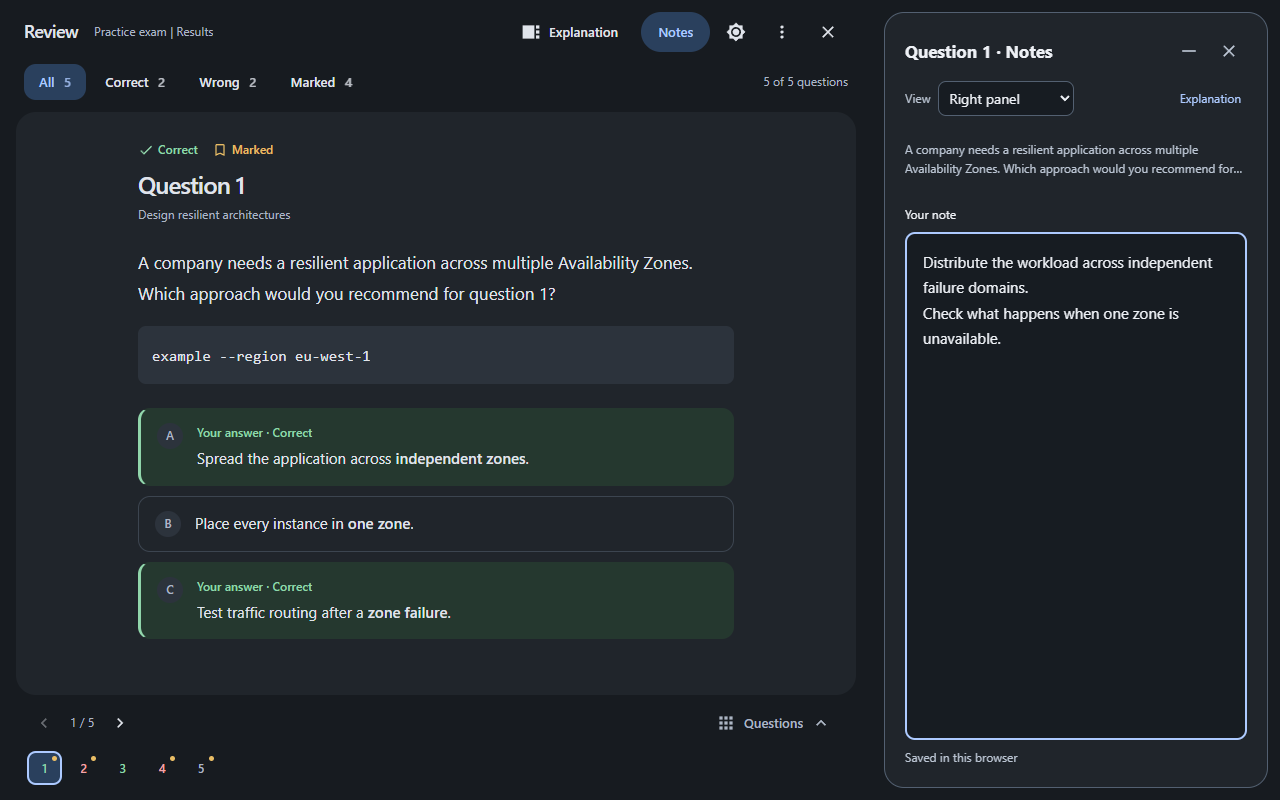
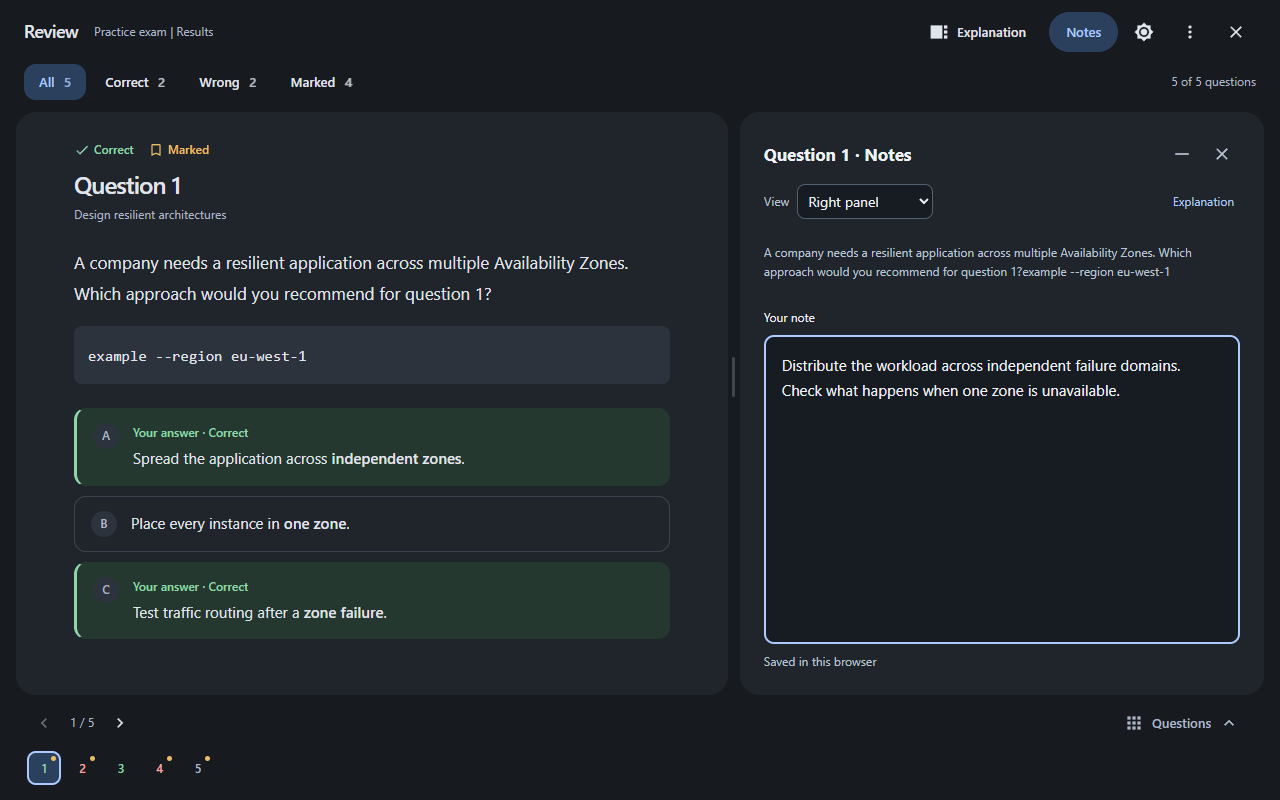
Integrate docked notes into workspace and ship extension-only website download

diff --git a/extension/notes.js b/extension/notes.js
@@ -6,7 +6,7 @@
   const noteIcon = '<svg viewBox="0 0 24 24" width="20" height="20" aria-hidden="true" fill="currentColor"><path d="M3,10h11v2H3V10z M3,8h11V6H3V8z M3,16h7v-2H3V16z M18.01,12.87l0.71-0.71c0.39-0.39,1.02-0.39,1.41,0l0.71,0.71 c0.39,0.39,0.39,1.02,0,1.41l-0.71,0.71L18.01,12.87z M17.3,13.58l-5.3,5.3V21h2.12l5.3-5.3L17.3,13.58z"/></svg>';
   const minimizePath = 'M4 11h16v2H4z', expandPath = 'M12 5.83L15.17 9l1.41-1.41L12 3 7.41 7.59 8.83 9 12 5.83zm0 12.34L8.83 15l-1.41 1.41L12 21l4.59-4.59L15.17 15 12 18.17z';
   let host, shadow, current, shownStamp, targetStamp, trigger, pending = Promise.resolve(), writes = 0, failed = false, enabled = true, opening = 0;
-  let placement = 'floating';
+  let placement = 'floating', activePrompt, nativeLayout;
   const buttons = new WeakMap();
   const node = (tag, text) => { const element = document.createElement(tag); if (text) element.textContent = text; return element; };
   function mount() {
@@ -20,8 +20,9 @@
       *{box-sizing:border-box}[hidden]{display:none!important}
       section{width:min(480px,calc(100vw - 36px));max-height:calc(100dvh - 36px);overflow:auto;padding:20px;background:var(--surface);color:var(--ink);font:14px/1.55 system-ui;border:1px solid var(--line);border-radius:20px;box-shadow:0 12px 48px #0004;animation:enter 160ms ease-out;transition:width 160ms ease}
       :host([data-minimized]) section{width:min(320px,calc(100vw - 36px));padding:12px 16px}
-      :host([data-docked]){top:12px!important;right:12px!important;bottom:12px!important;width:var(--study-notes-width)}
-      :host([data-docked]) section{width:100%;height:100%;max-height:none;display:flex;flex-direction:column;box-shadow:none;padding:20px}
+      :host([data-docked]){position:static!important;inset:auto!important;z-index:auto!important;width:100%;height:100%;min-width:0;min-height:0;display:block}
+      :host([hidden]){display:none!important}
+      :host([data-docked]) section{width:100%;height:100%;max-height:none;min-height:360px;display:flex;flex-direction:column;box-shadow:none;border:0;padding:24px;animation:none}
       :host([data-docked]) #editor{display:flex;flex:1;min-height:0;flex-direction:column}
       :host([data-docked]) textarea{flex:1;min-height:140px;max-height:none;resize:none}
       .placement{display:flex;align-items:center;gap:8px;margin:12px 0}.placement label{margin:0;font-size:12px;color:var(--muted)}
@@ -75,12 +76,37 @@
     layout();
   }
   function close() { if (host) host.hidden = true; layout(); trigger?.focus(); }
+  function moveTo(parent) {
+    if (!host || host.parentElement === parent) return;
+    const focused = shadow.activeElement;
+    parent.append(host);
+    focused?.focus({preventScroll:true});
+  }
+  function releaseDock() {
+    nativeLayout?.removeAttribute('data-study-notes-layout'); nativeLayout = null;
+    host?.removeAttribute('slot');
+    moveTo(document.body);
+  }
   function layout() {
-    const docked = !!host && !host.hidden && !host.hasAttribute('data-minimized') && placement === 'docked' && innerWidth >= 1100;
     const root = document.documentElement;
-    root.toggleAttribute('data-study-notes-docked',docked);
     const review = document.querySelector('#udemy-study-review');
+    const question = activePrompt?.isConnected && activePrompt.closest(`[class*="quiz-view--container--"],${wrapper}`);
+    const nativeTarget = question?.parentElement;
+    const docked = !!host && !host.hidden && !host.hasAttribute('data-minimized') && placement === 'docked' && innerWidth >= 1100 && !!(review || nativeTarget);
+    if (nativeLayout && (!docked || review || nativeLayout !== nativeTarget)) {
+      nativeLayout.removeAttribute('data-study-notes-layout'); nativeLayout = null;
+    }
+    if (docked && review) {
+      host.slot = 'notes'; moveTo(review);
+    } else if (docked) {
+      host.removeAttribute('slot'); nativeLayout = nativeTarget;
+      const siblings = [...nativeTarget.children].filter(child => child !== host && getComputedStyle(child).display !== 'none' && !['absolute','fixed'].includes(getComputedStyle(child).position));
+      host.style.setProperty('--study-note-row',String(siblings.indexOf(question)+1));
+      nativeLayout.setAttribute('data-study-notes-layout',''); moveTo(nativeTarget);
+    } else { host?.removeAttribute('slot'); moveTo(document.body); }
+    root.toggleAttribute('data-study-notes-docked',docked);
     review?.toggleAttribute('data-notes-docked',docked);
+    review?.shadowRoot.querySelector('.splitter')?.setAttribute('aria-label',docked ? 'Resize notes panel' : 'Resize explanation panel');
     const explain = review?.shadowRoot.querySelector('[data-control="explanation"]');
     review?.shadowRoot.querySelector('[data-control="notes"]')?.setAttribute('aria-pressed',String(!!host && !host.hidden));
     if (explain) {
@@ -110,6 +136,7 @@
   const stampFor = (prompt,number) => JSON.stringify([location.pathname,number,StudyDockNotes.content(prompt)]);
   async function open(prompt, number, button, focus = true) {
     const request = ++opening;
+    activePrompt = prompt;
     mount(); host.hidden = false; trigger = button;
     if (focus) setMinimized(false);
     shadow.querySelector('#text').disabled = true;
@@ -195,12 +222,11 @@
     button.style.marginLeft = Math.max(0, textLeft - base) + 'px';
   }
   const style = node('style'); style.textContent = `
-    html{--study-notes-width:clamp(340px,30vw,440px)}
-    html[data-study-notes-docked]:not([data-study-focus]) body{width:calc(100% - var(--study-notes-width) - 24px)!important}
-    html[data-study-notes-docked] #udemy-study-review{right:calc(var(--study-notes-width) + 24px)!important}
+    [data-study-notes-layout]{display:grid!important;grid-template-columns:minmax(0,1fr) minmax(320px,34%);column-gap:16px;align-items:stretch}
+    [data-study-notes-layout]>*{grid-column:1;min-width:0}
+    [data-study-notes-layout]>#studydock-notes{grid-column:2;grid-row:var(--study-note-row,1)}
     html[data-study-notes-docked]:not([data-study-focus]) :is([data-purpose="sidebar"],[class*="app--sidebar--"],[class*="sidebar--sidebar--"]){display:none!important}
     html[data-study-notes-docked]:not([data-study-focus]) [class*="app--content--"]{margin-right:0!important}
-    html[data-study-notes-docked]:not([data-study-focus]) [class*="curriculum-item-footer--footer"]{right:calc(var(--study-notes-width) + 24px)!important;width:auto!important}
     [data-study-mark-control]{border-radius:20px!important;padding:8px 14px!important;font:500 14px system-ui!important;min-height:36px!important}
     html[data-study-dark] [data-study-mark-control]{color:#c1d8fa!important;background:#2a405d!important}
     .studydock-note-button{display:inline-flex;align-items:center;align-self:flex-start;justify-self:start;width:max-content!important;max-width:100%;gap:8px;margin:12px 0;padding:8px 14px;border:0;border-radius:20px;background:#dce9fc;color:#285ea8;font:500 14px system-ui;cursor:pointer}
@@ -222,5 +248,5 @@
     }
   });
   window.addEventListener('beforeunload', event => { if (writes || failed) { event.preventDefault(); event.returnValue = ''; } });
-  globalThis.StudyDockNoteUI = {open, follow, close, layout, docked:() => !!host?.hasAttribute('data-docked')};
+  globalThis.StudyDockNoteUI = {open, follow, close, layout, releaseDock, docked:() => !!host?.hasAttribute('data-docked')};
 })();

diff --git a/website/app/page.jsx b/website/app/page.jsx
@@ -4,10 +4,10 @@ import Demo from '../components/Demo';
 import Downloads from '../components/Downloads';
 import Privacy from '../components/Privacy';
 import ArrowOutwardRounded from '@mui/icons-material/ArrowOutwardRounded';
-import {REPOSITORY,STORE_URL,PRIVATE_REPOSITORY,asset} from '../lib/config';
+import {REPOSITORY,STORE_URL,asset} from '../lib/config';
 export default function Page() {
   return <><a className="skip-link" href="#main">Skip to content</a><div className="page-wrap" id="top"><Header/><main id="main">
-    <section className="hero"><div className="hero-copy"><p className="eyebrow">A study workspace for Udemy</p><h1>Make sense of<br/>every missed<br/><span>question.</span></h1><p className="hero-description">Give your practice tests a second life. Read the explanation, keep your own reasoning, and take useful notes into your next study session.</p><div className="hero-actions"><InstallButton/><a className="text-link" href="#try-it">Try the study example <ArrowOutwardRounded fontSize="small"/></a></div><p className="availability">{STORE_URL?'Desktop Chrome · desktop app optional':`GitHub source ZIP · for desktop Chrome${PRIVATE_REPOSITORY?' · repository access required':''}`}</p>{!STORE_URL&&<details className="extension-install"><summary>Install in Chrome from GitHub</summary><ol><li>Download and extract the ZIP into a permanent folder.</li><li>Open <code>chrome://extensions</code> and enable <strong>Developer mode</strong>.</li><li>Click <strong>Load unpacked</strong> and select the extracted repository’s <code>extension</code> folder.</li><li>Pin StudyDock from Chrome’s Extensions menu. Keep the folder in place.</li></ol><p>No Chrome Web Store listing is needed for this installation.</p></details>}</div>
+    <section className="hero"><div className="hero-copy"><p className="eyebrow">A study workspace for Udemy</p><h1>Make sense of<br/>every missed<br/><span>question.</span></h1><p className="hero-description">Give your practice tests a second life. Read the explanation, keep your own reasoning, and take useful notes into your next study session.</p><div className="hero-actions"><InstallButton/><a className="text-link" href="#try-it">Try the study example <ArrowOutwardRounded fontSize="small"/></a></div><p className="availability">{STORE_URL?'Desktop Chrome · desktop app optional':'Extension-only ZIP · for desktop Chrome'}</p>{!STORE_URL&&<details className="extension-install"><summary>Install in Chrome</summary><ol><li>Download and extract the ZIP into a permanent folder.</li><li>Open <code>chrome://extensions</code> and enable <strong>Developer mode</strong>.</li><li>Click <strong>Load unpacked</strong> and select the extracted folder containing <code>manifest.json</code>.</li><li>Pin StudyDock from Chrome’s Extensions menu. Keep the folder in place.</li></ol><p>No Chrome Web Store listing is needed for this installation.</p></details>}</div>
       <div className="hero-preview"><div className="preview-label"><span className="status-dot"/>A little more room to understand</div><ProductShot src="images/focus-review.png" alt="StudyDock focused review showing a question alongside answer explanations and a question navigation tray" caption="The focused review workspace" priority/><div className="preview-note"><span className="note-rule"/><p>One question. Your answer.<br/><strong>The reason behind it.</strong></p></div></div></section>
     <div className="principles"><span>Browser-first</span><span>Question-specific notes</span><span>Markdown & JSON</span><span>Light & dark themes</span></div>
     <section id="workspace" className="workspace-section"><div className="section-intro"><span className="eyebrow">From result to understanding</span><h2>Keep the context.<br/>Add your thinking.</h2><p>Your answer, the explanation and your own note belong together. StudyDock keeps them within reach, without turning your exam into another dashboard.</p><ol className="feature-lines"><li><span>01</span><div><h3>Review at your own pace</h3><p>Move between questions, filter the ones you missed or marked, and give explanations the space they need.</p></div></li><li><span>02</span><div><h3>Remember what clicked</h3><p>Float your notes or dock them on the right. Notes follow the current question in exams and focused review; the dock shares space with Explanation.</p></div></li><li><span>03</span><div><h3>Take the useful parts with you</h3><p>Export questions with answers, explanations, review flags and notes. Choose a batch size that fits your study session.</p></div></li></ol></div><div className="workspace-images"><ProductShot src="images/question-notes.png" alt="A question-specific notes panel open beside a practice question in StudyDock" caption="Your reasoning stays with the question"/><p className="image-note">Actual StudyDock interface. All questions shown here are illustrative examples.</p></div></section>

diff --git a/extension/review.js b/extension/review.js
@@ -73,9 +73,13 @@
     .splitter:hover:after,.splitter:focus:after {background:var(--accent)}
     .left .question {grid-column:3}.left .explanation {grid-column:1}
     .panes.closed {grid-template-columns:minmax(0,1fr)}.closed .question {grid-column:1}.closed .explanation,.closed .splitter {display:none}
-    :host([data-notes-docked]) .panes{grid-template-columns:minmax(0,1fr)}
+    :host([data-notes-docked]) .panes{grid-template-columns:minmax(0,1fr) 12px minmax(320px,var(--explanation-width,42%))}
     :host([data-notes-docked]) .question{grid-column:1}
-    :host([data-notes-docked]) .explanation,:host([data-notes-docked]) .splitter{display:none}
+    :host([data-notes-docked]) .explanation{display:none}
+    :host([data-notes-docked]) .splitter{display:block}
+    .notes-panel{display:none;grid-column:3;grid-row:1;min-height:0;min-width:0;overflow:auto;border-radius:20px;background:var(--surface)}
+    :host([data-notes-docked]) .notes-panel{display:block}
+    slot[name=notes]{display:block;height:100%}
     .panel {min-width:0;min-height:0;overflow:auto;overscroll-behavior:contain;background:var(--surface);border-radius:20px;
       scrollbar-width:thin;scrollbar-color:var(--line) transparent;scroll-padding:28px}
     .reading {max-width:78ch;margin:auto;padding:28px clamp(24px,3vw,48px) 36px}
@@ -352,6 +356,7 @@
   }
   function closeReview() {
     closeImage(false);
+    globalThis.StudyDockNoteUI?.releaseDock();
     host?.remove(); host = shadow = null;
     document.documentElement.removeAttribute("data-study-focus");
     rememberedFocus?.focus?.({preventScroll: true}); rememberedFocus = null;
@@ -460,14 +465,14 @@
     const resize = value => { const width = Math.max(25, Math.min(65, value)); panes.style.setProperty("--explanation-width", `${width}%`); splitter.setAttribute("aria-valuenow", String(Math.round(width))); return width; };
     splitter.addEventListener("pointerdown", event => {
       if (event.button !== 0) return; event.preventDefault(); splitter.setPointerCapture(event.pointerId);
-      const move = event => { const rect = panes.getBoundingClientRect(); const x = (event.clientX - rect.left) / rect.width * 100; resize(settings.explanationSide === "left" ? x : 100 - x); };
+      const move = event => { const rect = panes.getBoundingClientRect(); const x = (event.clientX - rect.left) / rect.width * 100; resize(settings.explanationSide === "left" && !host.hasAttribute('data-notes-docked') ? x : 100 - x); };
       const done = () => { splitter.removeEventListener("pointermove", move); splitter.removeEventListener("pointerup", done); splitter.removeEventListener("pointercancel", done); save({explanationWidth: Number(splitter.getAttribute("aria-valuenow"))}); };
       splitter.addEventListener("pointermove", move); splitter.addEventListener("pointerup", done); splitter.addEventListener("pointercancel", done);
     });
     splitter.addEventListener("keydown", event => {
       if (!["ArrowLeft", "ArrowRight", "Home", "End"].includes(event.key)) return;
       event.preventDefault(); event.stopPropagation();
-      const change = (event.key === "ArrowRight" ? 2 : -2) * (settings.explanationSide === "left" ? 1 : -1);
+      const change = (event.key === "ArrowRight" ? 2 : -2) * (settings.explanationSide === "left" && !host.hasAttribute('data-notes-docked') ? 1 : -1);
       const value = event.key === "Home" ? 25 : event.key === "End" ? 65 : Number(splitter.getAttribute("aria-valuenow")) + change;
       save({explanationWidth: resize(value)});
     }); panes.append(splitter);
@@ -478,7 +483,9 @@
       if (!option.reasons.length) return;
       const details = el("details"); details.append(el("summary", "", `Choice ${String.fromCharCode(65 + i)} explanation`));
       option.reasons.forEach(reason => details.append(copyRich(reason))); exp.append(details);
-    }); explanation.append(exp); panes.append(explanation); workspace.append(panes);
+    }); explanation.append(exp); panes.append(explanation);
+    const notesPanel = el('div','notes-panel'), notesSlot = el('slot'); notesSlot.name = 'notes'; notesPanel.append(notesSlot); panes.append(notesPanel);
+    workspace.append(panes);
     const bottom = el("footer", "bottom"), nav = el("div", "nav-line"), paging = el("div", "controls");
     const indexes = matchingIndexes(), position = indexes.indexOf(active);
     const previous = iconButton("Previous question", "previous", () => step(-1)), next = iconButton("Next question", "next", () => step(1));

diff --git a/website/lib/config.js b/website/lib/config.js
@@ -1,7 +1,7 @@
 export const REPOSITORY = 'https://github.com/HimanM/Udemy-Study-Tools';
-export const EXTENSION_ZIP = `${REPOSITORY}/archive/refs/heads/main.zip`;
 export const VERSION = '1.4.3';
 export const BASE_PATH = process.env.NEXT_PUBLIC_BASE_PATH || '';
+export const EXTENSION_ZIP = `${BASE_PATH}/downloads/StudyDock-extension.zip`;
 export const PRIVATE_REPOSITORY = process.env.NEXT_PUBLIC_REPO_PRIVATE !== 'false';
 const store = process.env.NEXT_PUBLIC_CHROME_STORE_URL || '';
 export const STORE_URL = /^https:\/\/chromewebstore\.google\.com\/detail\//.test(store) ? store : '';

diff --git a/test_notebook.py b/test_notebook.py
@@ -109,13 +109,20 @@ def main():
         exam_panel.get_by_label('View',exact=True).select_option('docked')
         exam.wait_for_function("document.documentElement.hasAttribute('data-study-notes-docked')")
         assert exam.locator('[data-purpose=sidebar]').is_hidden()
-        assert exam.locator('main').bounding_box()['width'] < 950
+        assert exam_panel.evaluate("node=>node.parentElement.hasAttribute('data-study-notes-layout') && getComputedStyle(node).position==='static'")
+        question_box=exam.locator('[class*=quiz-view--container]').bounding_box()
+        note_box=exam_panel.bounding_box()
+        assert abs(question_box['y']-note_box['y'])<1
+        assert abs(question_box['height']-note_box['height'])<1
+        assert question_box['x']+question_box['width']<note_box['x']
+        screenshot(exam,'exam-notes-docked.png')
         exam_panel.get_by_role('button',name='Course sidebar',exact=True).click()
         assert exam.locator('[data-purpose=sidebar]').is_visible()
         exam.get_by_role('button',name='Notes',exact=True).click()
         assert exam_panel.get_attribute('data-docked') is not None
         exam_panel.get_by_label('View',exact=True).select_option('floating')
         exam.wait_for_function("!document.documentElement.hasAttribute('data-study-notes-docked')")
+        assert exam_panel.evaluate("node=>node.parentElement===document.body && getComputedStyle(node).position==='fixed'")
         original_prompt=exam.locator('#question-prompt').inner_html()
         next_prompt=page.locator('[id="question-prompt"]').nth(1).inner_html()
         exam_panel.locator('textarea').fill('Exam question one reminder')
@@ -160,7 +167,31 @@ def main():
         panel.get_by_label('View',exact=True).select_option('docked')
         page.wait_for_function("document.querySelector('#udemy-study-review').hasAttribute('data-notes-docked')")
         assert review.locator('.explanation').is_hidden()
+        assert panel.evaluate("node=>node.parentElement.id==='udemy-study-review' && node.assignedSlot?.name==='notes' && getComputedStyle(node).position==='static'")
+        question_box=review.locator('.question').bounding_box()
+        note_box=panel.bounding_box()
+        assert abs(question_box['y']-note_box['y'])<1
+        assert abs(question_box['height']-note_box['height'])<1
         assert review.locator('.question').bounding_box()['x'] + review.locator('.question').bounding_box()['width'] < panel.bounding_box()['x']
+        splitter=review.get_by_role('separator',name='Resize notes panel')
+        before=note_box['width']; splitter.focus(); page.keyboard.press('ArrowLeft')
+        assert panel.bounding_box()['width']>before
+        review.get_by_role('button',name='Next question',exact=True).click()
+        panel.get_by_role('heading',name='Question 2 · Notes',exact=True).wait_for()
+        review.get_by_role('button',name='Previous question',exact=True).click()
+        panel.get_by_role('heading',name='Question 1 · Notes',exact=True).wait_for()
+        assert panel.locator('textarea').input_value()=='Explanation remains open while I type e.'
+        page.evaluate("chrome.storage.local.set({explanationSide:'left'})")
+        page.wait_for_function("document.querySelector('#udemy-study-review').shadowRoot.querySelector('.panes').classList.contains('left')")
+        assert review.locator('.question').bounding_box()['x']<panel.bounding_box()['x']
+        assert panel.locator('textarea').input_value()=='Explanation remains open while I type e.'
+        page.evaluate("chrome.storage.local.set({explanationSide:'right'})")
+        page.wait_for_function("!document.querySelector('#udemy-study-review').shadowRoot.querySelector('.panes').classList.contains('left')")
+        review.get_by_role('button',name='Original view',exact=True).click()
+        assert panel.is_visible()
+        assert panel.locator('textarea').input_value()=='Explanation remains open while I type e.'
+        page.get_by_role('button',name='Focus review',exact=True).click()
+        page.wait_for_function("document.querySelector('#studydock-notes').assignedSlot?.name==='notes'")
         screenshot(page,'review-notes-docked.png')
         review.get_by_role('button',name='Show explanation',exact=True).click()
         assert panel.is_hidden() and review.locator('.explanation').is_visible()

diff --git a/website/test_site.py b/website/test_site.py
@@ -5,6 +5,7 @@ import json
 import os
 from pathlib import Path
 import threading
+import zipfile
 from playwright.sync_api import sync_playwright
 
 ROOT=Path(__file__).resolve().parent
@@ -37,10 +38,18 @@ try:
         assert '\u2014' not in page.locator('body').inner_text()
         page.wait_for_function("document.documentElement.dataset.theme==='dark'")
         assert page.locator('a[href*="chromewebstore.google.com"]').count()==0
-        assert page.get_by_role('link',name='Download extension',exact=True).first.get_attribute('href')=='https://github.com/HimanM/Udemy-Study-Tools/archive/refs/heads/main.zip'
-        page.get_by_text('Install in Chrome from GitHub',exact=True).click()
+        extension_link=page.get_by_role('link',name='Download extension',exact=True).first
+        assert extension_link.get_attribute('href')==BASE+'/downloads/StudyDock-extension.zip'
+        with page.expect_download() as extension_download:
+            extension_link.click()
+        with zipfile.ZipFile(extension_download.value.path()) as archive:
+            expected={file.relative_to(ROOT.parent/'extension').as_posix() for file in (ROOT.parent/'extension').rglob('*') if file.is_file()}
+            assert set(archive.namelist())==expected
+            assert json.loads(archive.read('manifest.json'))['version']==json.loads((ROOT.parent/'extension/manifest.json').read_text())['version']
+            assert archive.read('notes.js')==(ROOT.parent/'extension/notes.js').read_bytes()
+        page.get_by_text('Install in Chrome',exact=True).click()
         assert 'Load unpacked' in page.locator('.extension-install').inner_text()
-        page.get_by_text('Install in Chrome from GitHub',exact=True).click()
+        page.get_by_text('Install in Chrome',exact=True).click()
         assert page.locator('link[rel=icon]').get_attribute('href').endswith('/favicon.png')
         for width in [1440,768,390]:
             page.set_viewport_size({'width':width,'height':1000 if width>400 else 844})

diff --git a/tools/build_browser_download.py b/tools/build_browser_download.py
@@ -1,0 +1,22 @@
+"""Build the extension-only download served by the static website."""
+import json
+from pathlib import Path
+import zipfile
+
+ROOT = Path(__file__).resolve().parents[1]
+source = ROOT / 'extension'
+destination = ROOT / 'website/public/downloads/StudyDock-extension.zip'
+manifest = json.loads((source / 'manifest.json').read_text(encoding='utf-8'))
+destination.parent.mkdir(parents=True, exist_ok=True)
+files = sorted(file for file in source.rglob('*') if file.is_file())
+with zipfile.ZipFile(destination, 'w', zipfile.ZIP_DEFLATED) as archive:
+    for file in files:
+        if not file.resolve().is_relative_to(source.resolve()):
+            raise ValueError(f'Extension file points outside its folder: {file.name}')
+        archive.write(file, file.relative_to(source))
+with zipfile.ZipFile(destination) as archive:
+    assert archive.testzip() is None
+    assert set(archive.namelist()) == {file.relative_to(source).as_posix() for file in files}
+    assert json.loads(archive.read('manifest.json')) == manifest
+    assert all(icon in archive.namelist() for icon in manifest['icons'].values())
+print(f"Built extension {manifest['version']}: {destination}")

diff --git a/README.md b/README.md
@@ -22,7 +22,7 @@ Review, notes and browser downloads need only the extension. Reviewing/exporting
 
 Download the matching package from [Releases](https://github.com/HimanM/Udemy-Study-Tools/releases). This repository is private: sign in with an account that has access. Packaged desktop apps include Python and Tk; you do not need to install Python separately.
 
-Release assets contain only the desktop application packages. The browser extension stays in this repository; there is no separate extension ZIP or checksum text-file download.
+Release assets contain only the desktop application packages. Download the [extension-only ZIP](https://udemystudytool.himanm.com/downloads/StudyDock-extension.zip) separately from the website. GitHub Actions packages the extension files for GitHub Pages; the ZIP contains no desktop application or repository source outside the extension.
 
 | System | Package | Installation |
 | --- | --- | --- |
@@ -58,9 +58,9 @@ Since the repository is private, the script reads `GH_TOKEN` or `GITHUB_TOKEN`, 
 
 ### Chrome companion
 
-1. Use the desktop app's **Chrome setup** button to find the bundled extension, or download this repository with **Code → Download ZIP** and extract it into a permanent folder.
+1. Download the [extension-only ZIP](https://udemystudytool.himanm.com/downloads/StudyDock-extension.zip) and extract it into a permanent folder, or use the desktop app's **Chrome setup** button to find its bundled extension.
 2. Open `chrome://extensions`, enable **Developer mode**, and select **Load unpacked**.
-3. Choose the `extension` folder. Pin **StudyDock** from Chrome's Extensions menu.
+3. Choose the extracted folder containing `manifest.json` (or the desktop app's `extension` folder). Pin **StudyDock** from Chrome's Extensions menu.
 4. Open a completed test attempt in Udemy and select **Review questions**.
 
 The extension is installed locally; it is not published to the Chrome Web Store. Your existing Udemy login stays in Chrome. The desktop app's **Chrome setup** button can also show/copy the bundled extension path.
@@ -107,7 +107,7 @@ The lower half of this page lists saved notes. Filter by test and download notes
 
 ### Question notes
 
-Choose **View → Right panel** inside Notes, or set **Notes view** in Settings, to dock the editor. Exams keep the question and Notes side by side; Udemy's course/AI sidebar is temporarily hidden. In focused review, Notes replaces Explanation until you switch back. Close or minimize Notes to restore the previous workspace. **Floating window** remains available, and screens narrower than 1100 px use it automatically. Your choice is saved and switching layouts keeps your draft. Where Udemy exposes its Mark for review button, Notes sits beside it; marking still uses Udemy's own control.
+Choose **View → Right panel** inside Notes, or set **Notes view** in Settings, to dock the editor. It becomes a column in the question layout, with aligned panel edges. Exams keep the question and Notes side by side; Udemy's course/AI sidebar is temporarily hidden. In focused review, Notes uses Explanation's space and resize divider until you switch back. Close or minimize Notes to restore the previous workspace. **Floating window** remains an independent overlay, and screens narrower than 1100 px use it automatically. Your choice is saved and switching layouts keeps your draft. Where Udemy exposes its Mark for review button, Notes sits beside it; marking still uses Udemy's own control.
 
 Click **Notes** beside a question on Udemy, or in focused review's top bar. Notes save as you type; the panel reports save failures and offers a retry. Use **Minimize notes** to keep a compact question/status bar, or **Expand notes** to return to the larger, resizable writing area. In exams and focused review, notes follow the selected question even when minimized, after saving the previous draft. Question numbers are read automatically from Udemy and cannot be edited. If a layout's counter cannot be identified, the panel says the number is unavailable instead of guessing; the note remains attached to the question's content. If saving fails, the editor keeps that draft and its question label until you retry. Close it with Close or Escape.
 

diff --git a/website/README.md b/website/README.md
@@ -4,7 +4,7 @@ A single-page Next.js static export using Material UI components, Material icons
 
 ## Develop and build
 
-Node 22+ and npm are needed only for development/building. From `website/`:
+Node 22+ and npm are needed for website development. Building also needs Python 3.9+ (standard library only) to package the extension download. From `website/`:
 
 ```sh
 npm ci
@@ -18,6 +18,8 @@ npm test
 npm run build
 ```
 
+`npm run build` first packages only `../extension/` into `public/downloads/StudyDock-extension.zip`, with `manifest.json` at the ZIP root. This generated file is ignored by Git and included in the static export. It is hosted by GitHub Pages, independently of desktop release assets and repository visibility. No desktop code, website source or tests are included in the extension ZIP.
+
 Upload the contents of `out/` to a static host. Do not upload `node_modules`, the repository or `.next`. For local inspection of the exported build, run `python -m http.server 4173 --directory out` and open `http://localhost:4173`.
 
 The build follows [Next.js static-export guidance](https://nextjs.org/docs/app/guides/static-exports) and [Material UI's App Router integration](https://mui.com/material-ui/integrations/nextjs/).
@@ -30,8 +32,8 @@ Environment variables are read when building, not when serving the exported file
 | --- | --- |
 | `NEXT_PUBLIC_BASE_PATH` | Empty for `udemystudytool.himanm.com`. Set `/Udemy-Study-Tools` only when building for the GitHub project URL without the custom domain. No trailing slash. |
 | `NEXT_PUBLIC_SITE_URL` | Set the complete deployed homepage URL with a trailing slash to generate absolute social-preview image URLs. No assumed public deployment is embedded when unset. |
-| `NEXT_PUBLIC_CHROME_STORE_URL` | Empty until the extension is published. Only an HTTPS `chromewebstore.google.com/detail/…` URL activates the store-install CTA. Otherwise it downloads GitHub's repository ZIP; the page explains selecting its `extension` folder in Chrome. |
-| `NEXT_PUBLIC_REPO_PRIVATE` | `true`. Set `false` after making the GitHub repository public, to remove the private-download access note. This does not change repository visibility. |
+| `NEXT_PUBLIC_CHROME_STORE_URL` | Empty until the extension is published. Only an HTTPS `chromewebstore.google.com/detail/…` URL activates the store-install CTA. Otherwise it downloads the extension-only ZIP from `/downloads/StudyDock-extension.zip`. Extract it and load the folder containing `manifest.json` in Chrome. |
+| `NEXT_PUBLIC_REPO_PRIVATE` | `true`. Set `false` after making the GitHub repository public, to remove the desktop-download access note. The extension ZIP on the public website does not require repository access. This does not change repository visibility. |
 | `NEXT_TELEMETRY_DISABLED` | Set `1` to disable Next.js build-tool telemetry. The published website has no Next.js runtime server. |
 
 The current desktop version is deliberately `1.4.3` in `lib/config.js`, matching the published app packages. The source extension can have a newer version. When a new desktop release is actually published, update that constant and rebuild. Download URLs are direct GitHub release URLs; they are not fabricated store links.
